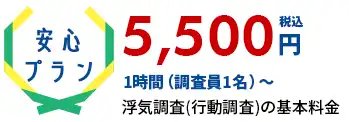
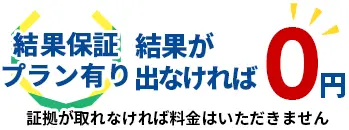
安心プラン→保証プラン有へ変更

diff --git a/src/pages/yamaguchi/index.js b/src/pages/yamaguchi/index.js
@@ -79,7 +79,7 @@ const yamaguchi = () => {
                 </div>
               </div>
               <div className='top_price_txt smp'>
-                <StaticImage src='../../img/plan_txt01_smp.webp' alt='安心プラン5500円' />
+              <StaticImage src='../../img/plan_txt01_smp.webp' alt='結果保証プラン有り結果が出なければ0円証拠が取れなければ料金はいただきません' />
               </div>
               <dl className='mp yamaguchi_top'>
                 <dt>

diff --git a/src/pages/okayama/index.js b/src/pages/okayama/index.js
@@ -95,7 +95,7 @@ const index = () => {
                     </p>
                   </div>
                   <div className='top_price_txt smp'>
-                    <StaticImage src='../../img/plan_txt01_smp.webp' alt='安心プラン5500円' />
+                  <StaticImage src='../../img/plan_txt01_smp.webp' alt='結果保証プラン有り結果が出なければ0円証拠が取れなければ料金はいただきません' />
                   </div>
                 </div>
               </div>

diff --git a/src/pages/shimane/index.js b/src/pages/shimane/index.js
@@ -78,7 +78,7 @@ const index = () => {
                 </div>
               </div>
               <div className='top_price_txt smp'>
-                <StaticImage src='../../img/plan_txt01_smp.webp' alt='安心プラン5500円' />
+              <StaticImage src='../../img/plan_txt01_smp.webp' alt='結果保証プラン有り結果が出なければ0円証拠が取れなければ料金はいただきません' />
               </div>
             </div>
             <div id='about'>

diff --git a/src/pages/ehime/index.js b/src/pages/ehime/index.js
@@ -81,7 +81,7 @@ const index = () => {
               </div>
 
               <div className='top_price_txt smp'>
-                <StaticImage src='../../img/plan_txt01_smp.webp' alt='安心プラン5500円' />
+              <StaticImage src='../../img/plan_txt01_smp.webp' alt='結果保証プラン有り結果が出なければ0円証拠が取れなければ料金はいただきません' />
               </div>
 
               <dl className='mp ehime_top'>

diff --git a/src/components/TopMenu.js b/src/components/TopMenu.js
@@ -46,7 +46,7 @@ const TopMenu = () => {
             </p>
 
             <div className='top_price_txt smp'>
-              <StaticImage src='../img/plan_txt01_smp.webp' alt='安心プラン5500円' />
+              <StaticImage src='../img/plan_txt01_smp.webp' alt='結果保証プラン有り結果が出なければ0円証拠が取れなければ料金はいただきません' />
             </div>
           </div>
         </div>
